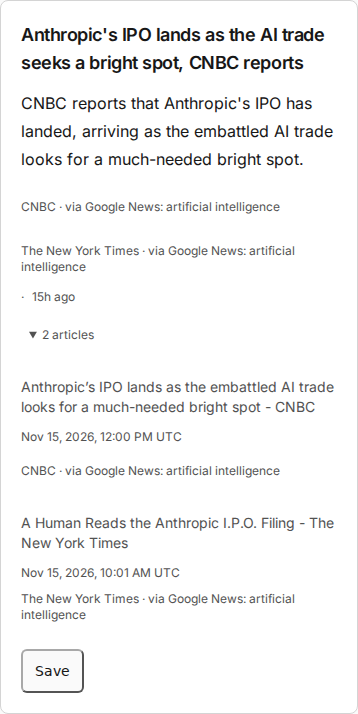
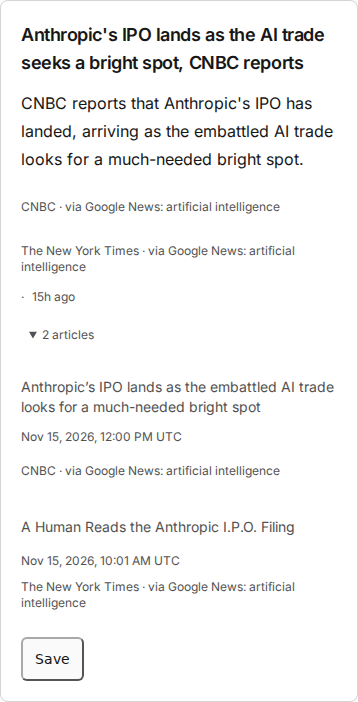
Remove repeated publisher suffixes from coverage titles

diff --git a/scripts/check-live-coverage-dedup.ts b/scripts/check-live-coverage-dedup.ts
@@ -43,6 +43,32 @@ async function main() {
       await card.locator('.coverage summary').click();
       assert.equal(await card.locator('.coverage li').count(), 2);
       assert.equal(
+        await card.locator('.coverage li > a').first().innerText(),
+        'Anthropic’s IPO lands as the embattled AI trade looks for a much-needed bright spot',
+      );
+      assert.equal(
+        await card.locator('.coverage li > a').nth(1).innerText(),
+        'A Human Reads the Anthropic I.P.O. Filing',
+      );
+      for (const [index, report] of story.coverage.entries()) {
+        assert.equal(
+          await card
+            .locator('.coverage li > a')
+            .nth(index)
+            .getAttribute('href'),
+          report.url,
+        );
+        assert.ok(report.title.endsWith(` - ${report.publisher?.name}`));
+        assert.equal(
+          await card
+            .locator('.coverage li')
+            .nth(index)
+            .locator('span a')
+            .innerText(),
+          `${report.publisher?.name} · via Google News: artificial intelligence`,
+        );
+      }
+      assert.equal(
         await card
           .locator('.coverage li > a')
           .filter({ hasText: 'A Human Reads the Anthropic' })

diff --git a/apps/web/src/StorySources.tsx b/apps/web/src/StorySources.tsx
@@ -72,7 +72,13 @@ export function StorySources({
                   rel="noreferrer"
                   className="flex min-h-11 min-w-11 items-center rounded-md py-2 text-sm font-normal hover:text-[var(--accent)] focus-visible:outline-2 focus-visible:outline-offset-2 focus-visible:outline-[var(--accent)]"
                 >
-                  {article.title}
+                  {article.publisher &&
+                  article.title.endsWith(` - ${article.publisher.name}`)
+                    ? article.title.slice(
+                        0,
+                        -` - ${article.publisher.name}`.length,
+                      )
+                    : article.title}
                 </a>
                 <span className="flex flex-wrap gap-x-3 gap-y-1">
                   <time dateTime={article.publishedAt}>

diff --git a/PROGRESS.md b/PROGRESS.md
@@ -129,3 +129,14 @@ Archived [iterations 2442–2447](docs/progress-archive/2026-11-16-iterations-24
 - `pnpm exec tsx scripts/check-scheduled-reader.ts 2026-11-15T15:00:00Z` verifies five topics/23 stories/16 posts and saved scheduled provenance. Final alerts zero; receipts `/tmp/2456-{check,build,browser,provenance,alerts}.log`.
 - Initial plain HTTPS curl hit the VM's managed private host mapping; browser acceptance used public DNS as existing live scripts do. No sharing/config changes, provider calls or new blocker.
 - Next: metrics ≥03:25 UTC; Bluesky export by 12:36; public scheduled edition acceptance at 15:00. Protect 13:00–16:00 UTC; retain all production budgets and pilot settings.
+
+## 2026-11-16: iteration 2457 — simplify coverage titles
+
+- Clean main at f5ebd224; no inherited edits. Health/database/Redis and all 38 sources pass; alerts zero. Scheduled/content gates still await natural evidence.
+- Owner value: Tech coverage repeated CNBC/NYT publisher names in both headlines and the outlet line, making an already long report list harder to scan.
+- Display now removes only an exact trailing ` - publisher` when the report has explicit publisher metadata; the attribution below, destination, original saved title and other headlines stay intact.
+- `pnpm format`, `pnpm lint:fix`, `pnpm check` exit 0: 1,054 unit/329 integration pass, four expected skips. Receipts `/tmp/2457-{format,lint,check}.log`.
+- `VITE_PUBLIC_MODE=1 pnpm --filter @digest/web build` atomically deployed under `/tmp/2457-deploy.py`: 11 public reader/previous-asset probe pairs pass, zero failed requests. No service restart for this web-only change, per STEERING 63.
+- `pnpm exec tsx scripts/check-live-coverage-dedup.ts` passes public HTTPS desktop/mobile, original API titles/links and publisher credit preserved, no browser errors; screenshots updated and viewed.
+- `pnpm exec tsx scripts/check-scheduled-reader.ts 2026-11-15T15:00:00Z` passes five topics/23 stories/16 posts with scheduled provenance; final `pnpm obs alerts` zero.
+- No paid calls or new blocker. Next metrics ≥03:25 UTC, Bluesky export by 12:36, public scheduled edition acceptance at 15:00; protect 13:00–16:00 UTC.

diff --git a/TASKS.md b/TASKS.md
@@ -59,6 +59,8 @@ Details and original evidence links: [2455 handoff archive](docs/progress-archiv
 
 ## Latest completed steps
 
+- [x] 2457: coverage titles omit exact duplicate publisher suffixes; publisher attribution and saved evidence stay intact.
+
 - [x] 2456: removed duplicate Google News wrapper citations from reader coverage; saved editions and editorial selection unchanged.
 
 - [x] 2455: compacted task handoff; preserved all 22 open gates and original evidence in linked archive.
